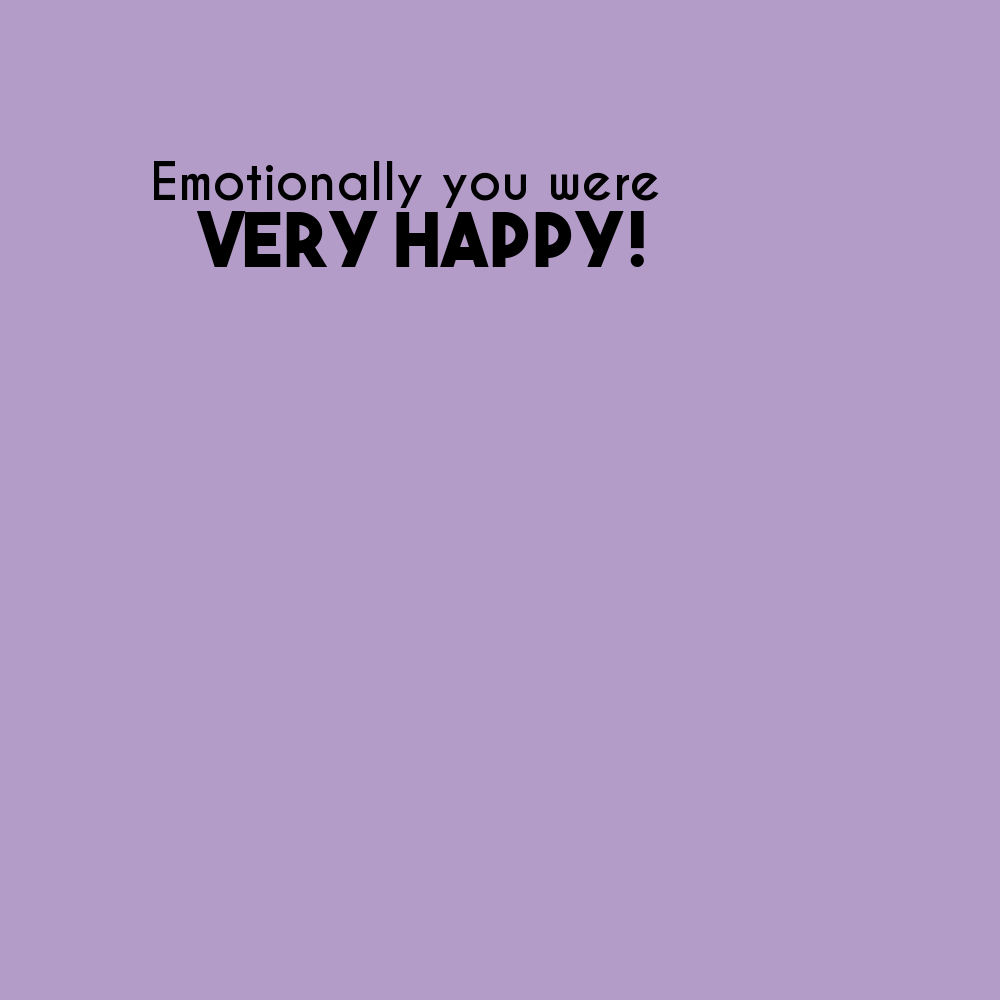
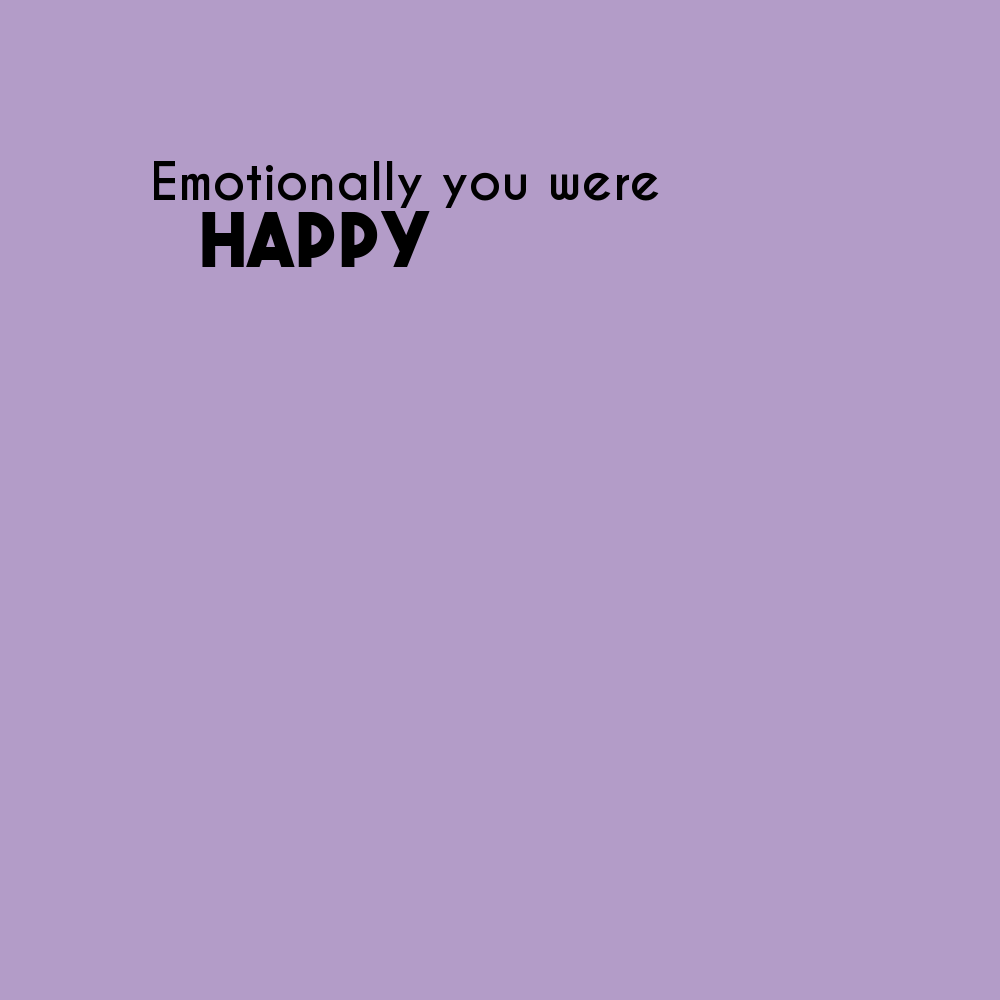
Output most liked,retweeted,quoted

Changed region(s): [[0.186, 0.186, 0.651, 0.279]]

diff --git a/tweepy_twitter.py b/tweepy_twitter.py
@@ -159,6 +159,72 @@ def analyse_sentiment(tweet):
         return -1
 
 
+#def most_retweeted_image():
+    #
+         
+def sentiment_image(username, sentiment):
+    if sentiment > 10:
+        sentiment_class = "VERY HAPPY!"
+    elif sentiment > 5:
+        sentiment_class = "HAPPY"
+    elif sentiment > 0:
+        sentiment_class = "BARELY HAPPY"
+    elif sentiment > -5:
+        sentiment_class = "DOWN BAD"
+    else:
+        sentiment_class = "DOWN TERRIBLE"
+
+    img = Image.open("img/templates/pink.png")
+    font1 = ImageFont.truetype("fonts/CaviarDreams_Bold.ttf", 50)
+    font2 = ImageFont.truetype("fonts/theboldfont.ttf", 75)
+    
+    draw = ImageDraw.Draw(img)
+    
+    text = "Emotionally you were"
+    text2 = sentiment_class
+    
+    draw.text((150,150), text, (0,0,0), font=font1)
+    draw.text((200,210), text2, (0,0,0), font=font2)
+    img.save("test.png")
+    
+    
+def highest_metrics_image(username,
+                          most_likes,
+                          most_retweets,
+                          most_quotes):
+        
+    img = Image.open("img/templates/pink.png")
+    draw = ImageDraw.Draw(img)
+    
+    font1 = ImageFont.truetype("fonts/CaviarDreams_Bold.ttf", 50)
+    font2 = ImageFont.truetype("fonts/theboldfont.ttf", 75)
+        
+    liked_text_1 = "Your most liked tweet had "
+    liked_text_2 = str(most_likes)
+    liked_text_3 = " likes"
+    
+    retweet_text_1 = "Your most retweeted tweet had "
+    retweet_text_2 = str(most_retweets)
+    retweet_text_3 = " retweets"
+    
+    quote_text_1 = "Your most quoted tweet had "
+    quote_text_2 = str(most_quotes)
+    quote_text_3 = " quotes"
+    
+    draw.text((150,150), liked_text_1, (0,0,0), font=font1)
+    draw.text((200,210), liked_text_2, (0,0,0), font=font2)
+    draw.text((300,210), liked_text_3, (0,0,0), font=font1)
+    
+    draw.text((150,150+200), retweet_text_1, (0,0,0), font=font1)
+    draw.text((200,210+200), retweet_text_2, (0,0,0), font=font2)
+    draw.text((300,210+200), retweet_text_3, (0,0,0), font=font1)
+    
+    draw.text((150,150+200+200), quote_text_1, (0,0,0), font=font1)
+    draw.text((200,210+200+200), quote_text_2, (0,0,0), font=font2)
+    draw.text((300,210+200+200), quote_text_3, (0,0,0), font=font1)
+    
+    img.save("img/outputs/highest_metrics/test.png")
+    
 def main(username):
     user = getUserInfo(username)  # get user info, such as id
     user_tweets = getUserRecentTweets(user.id)  # get tweets of user by id
@@ -187,44 +253,22 @@ def main(username):
     #print('like ', np.max(df['like_count']))
     #print('quote ', np.max(df['quote_count']))
     #print('created_at ', np.max(df['created_at']))
-
+    #
     # print average sentiment
-    print(np.average(df['sentiment']) * 100)
+    # print(np.average(df['sentiment']) * 100)
+    
     # sentiment to happiness
     sentiment = np.average(df['sentiment']) * 100
-    sentiment_image(sentiment)
-   
-
-#def most_retweeted_image():
-    #
-         
-def sentiment_image(sentiment):
-    if sentiment > 10:
-        sentiment_class = "VERY HAPPY!"
-    elif sentiment > 5:
-        sentiment_class = "HAPPY"
-    elif sentiment > 0:
-        sentiment_class = "BARELY HAPPY"
-    elif sentiment > -5:
-        sentiment_class = "DOWN BAD"
-    else:
-        sentiment_class = "DOWN TERRIBLE"
-
-    img = Image.open("img/templates/pink.png")
-    font1 = ImageFont.truetype("fonts/CaviarDreams_Bold.ttf", 50)
-    font2 = ImageFont.truetype("fonts/theboldfont.ttf", 75)
+    sentiment_image(username, sentiment)
     
-    draw = ImageDraw.Draw(img)
+    # metrics 
+    most_likes = np.max(df['like_count'])
+    most_retweets = np.max(df['retweet_count'])
+    most_quotes = np.max(df['quote_count'])
     
-    text = "Emotionally you were"
-    text2 = sentiment_class
-    
-    draw.text((150,150), text, (0,0,0), font=font1)
-    draw.text((200,210), text2, (0,0,0), font=font2)
-    img.save("test.png")
+    highest_metrics_image(username, most_likes,most_retweets,most_quotes)
     
     
 if __name__ == "__main__":
-    #main2('twitter')
-    #main(sys.argv[1])
-    sentiment_image(11)
+    main(sys.argv[1])
+    #sentiment_image(11)
